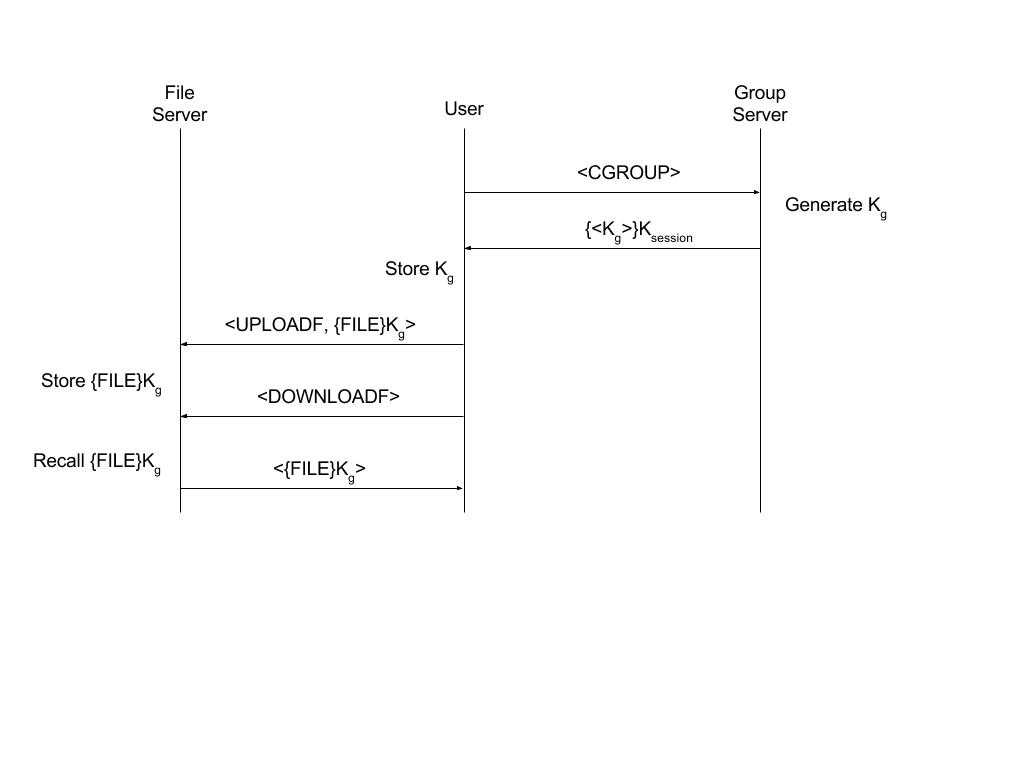
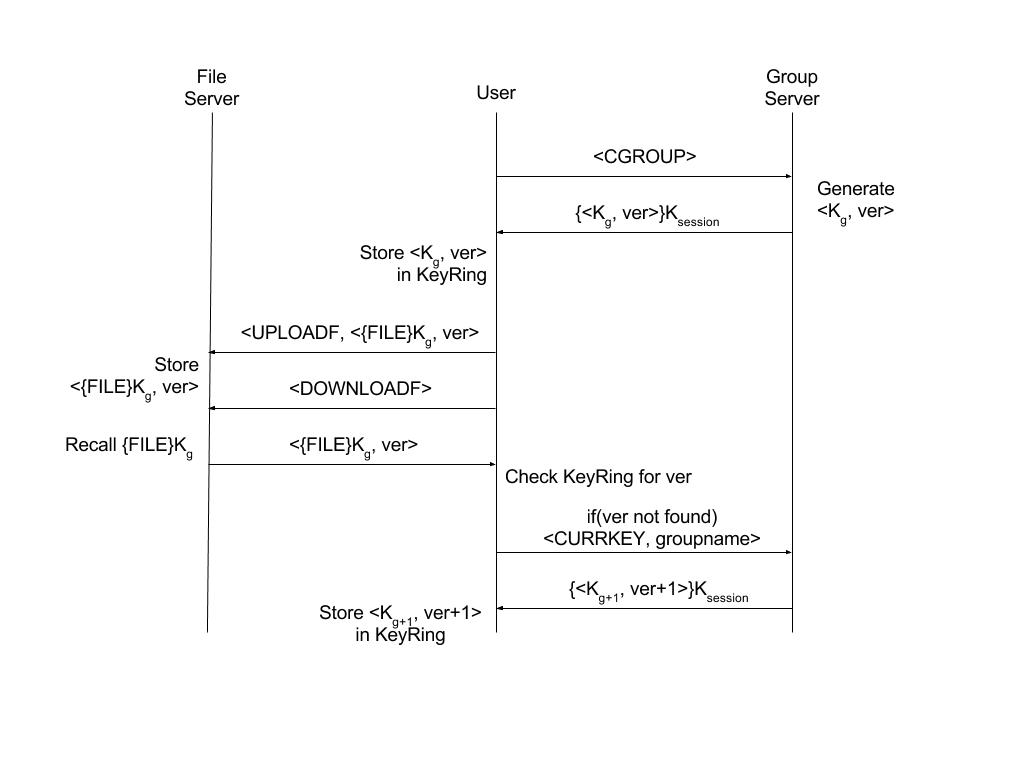
Fixed t6 text and image

diff --git a/reports/phase-4.md b/reports/phase-4.md
@@ -28,8 +28,10 @@ Reorder attacks will be protected by timestamps since once all messages are rece
 File servers are important in the notion of a group file system, but since they are not trusted, there is a big possibility they will attempt to steal files and leak them to other users or administrators. This threats causes a complete breakdown of the security of our system, and therefore is very important to protect against.
 **Mechanism:**  
 When a group is created, a 256 bit AES key is generated to represent that group.
-The generated key, encrypted by each user’s session key, is sent to all the group members when they connect to the group server if it has changed.
-When a user is deleted from a group, files will be re-encrypted and a new key will be generated and sent to all users of the group.
+The generated key will then be entered into the user's KeyRing with the correct version number
+A KeyRing is a wrapper class for a list of keys, but has the ability to reference multiple keys for each group/reference string.
+When a file is requested, it will be sent with a version number that corresponds to a key version that the KeyRing stores
+When a user is deleted from a group, a new key will be generated and sent to all users of the group to be inserted into their KeyRing as a secondary key for the same group.
 **Arguments:**  
 This mechanism makes sure all members of a group have the same key and that the key is sent in a secure manner. In order to keep every user up to date and prevent old users from snooping, a new key will be generated every time a user leaves a group. We are using a 256 bit AES key because it is still secure.
 
